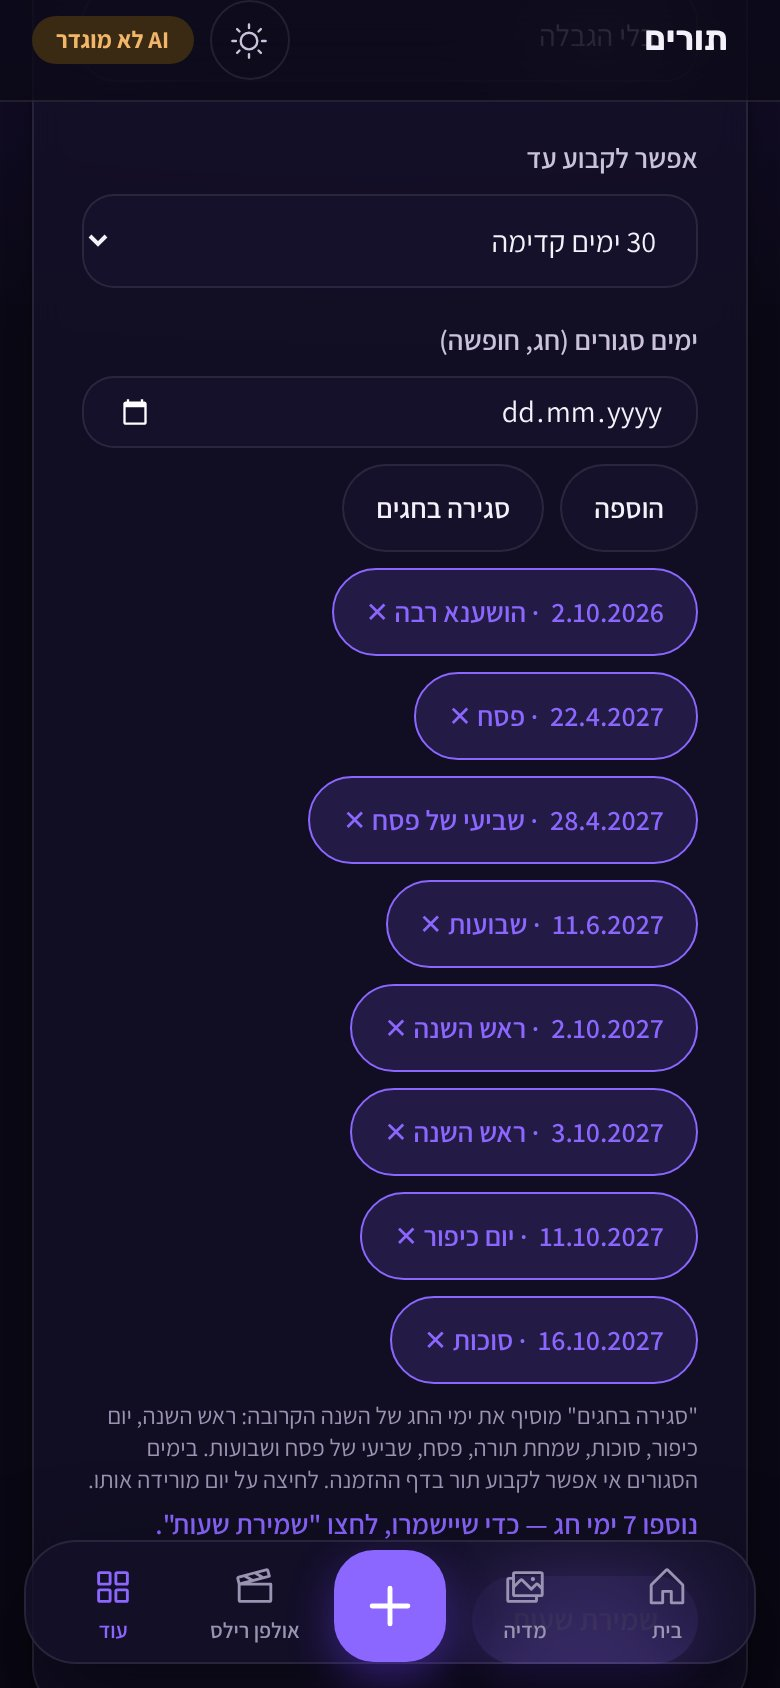
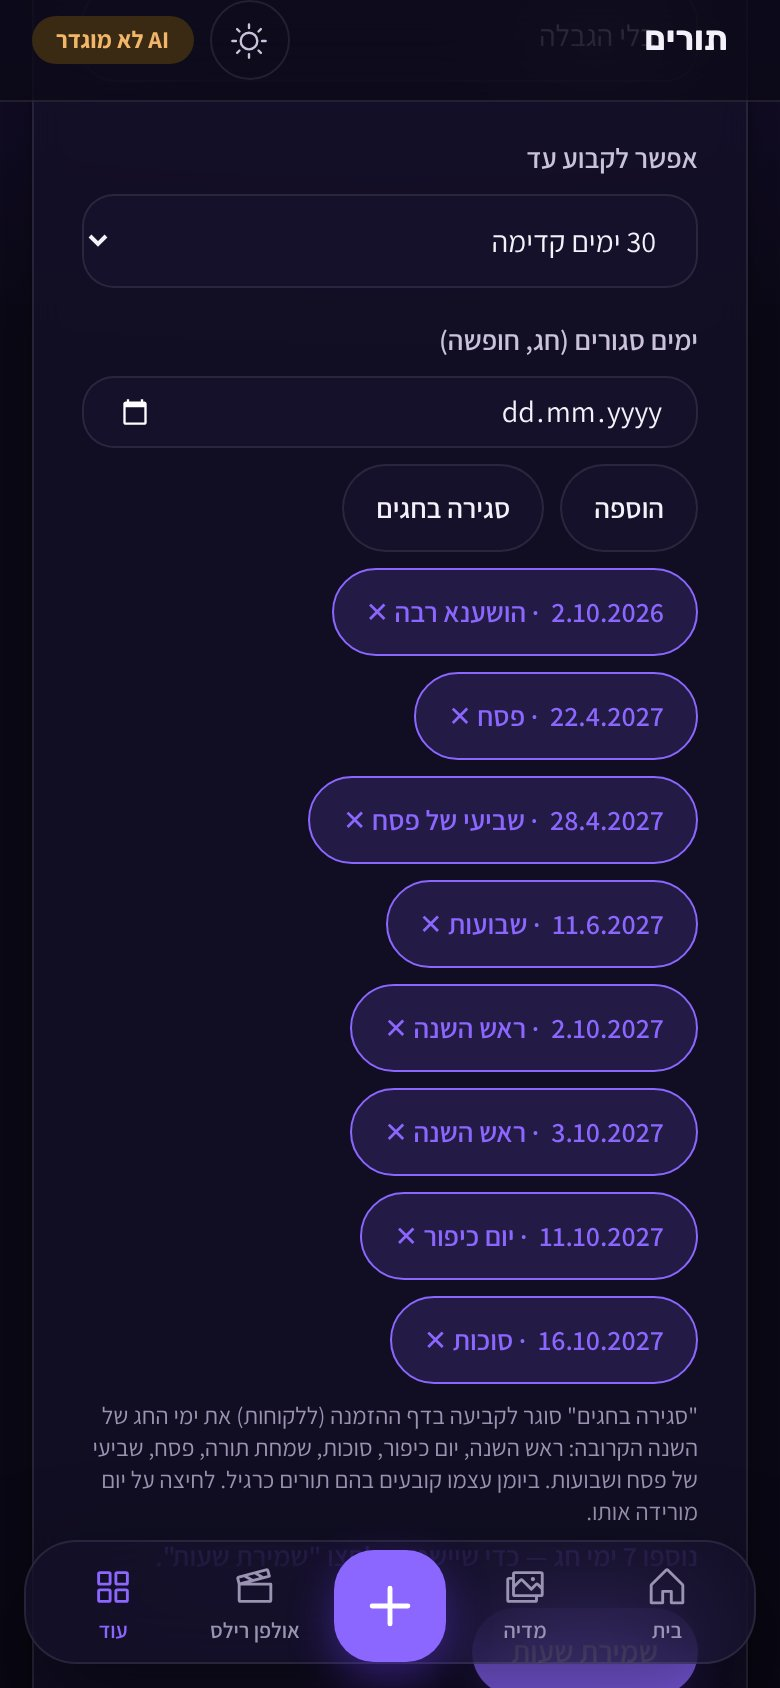
2.106.0: the results of the day colours — browser 14 of 14, the single-location screens, new screenshots
- calendar.e2e.ts 14 of 14: a booking on a Saturday with no hours, the holiday's colour,
  Hoshana Raba open, the practitioners' six colours.
- single-location (exact diff, no threshold): 11 of 13 screens identical to the pixel; two
  with a few dozen pixels 1 of 255 apart (not visible); the appointments screen changed on
  purpose in the Friday and Saturday columns only.
- docs/screenshots/2.106.0: the holiday's colour, Friday and Saturday, the practitioners'
  colours — test data, invented customers.

Claude-Session: https://claude.ai/code/session_01KrHxGFX6JW2VxitsjFfJC3

Changed region(s): [[0.1231, 0.8318, 0.8923, 0.955], [0.5846, 0.955, 0.8923, 1.0]]

diff --git a/dream-promotion/TESTING.md b/dream-promotion/TESTING.md
@@ -2150,7 +2150,7 @@ select
     - השעות של תור חדש (`calendarHours`): בשישי, בשבת ובחג בלי שעות — היום הרגיל של העסק (מהפתיחה המוקדמת עד הסגירה המאוחרת; בלי שעות בכלל — 09:00–19:00).
   - `lead-routing.test.ts`: כתום, כחול וסגול נדחים למטפלת (`staff.calendar` ו-`staff.save`) עם ההודעה "שמור ליומן", ושום דבר לא נשמר.
 - **`test:e2e`:**
-  - `calendar.e2e.ts` — 14 שלבים (ההרצה החוזרת רצה עכשיו — התוצאה תעודכן כאן) (שני שלבים חדשים, ושלושה שהשתנו):
+  - `calendar.e2e.ts` — 14 מתוך 14 (שני שלבים חדשים, ושלושה שהשתנו):
     - **"מטפלות":** לבחירה רק 6 צבעים (בלי כתום, כחול וסגול), וכתוב שהם שמורים לשישי, לשבת ולחגים.
     - **השבוע במחשב (מ-2.105):** שבת בלי שעות פעילות — "אין תורים", לא "סגור".
     - **במחשב:**
@@ -2166,7 +2166,7 @@ select
       - שישי 2.10 — "הושענא רבה" (בלי "סגור"), בצבע החג, לא מקווקו — למרות שהוא בימים הסגורים לדף ההזמנה.
       - "שעות פעילות" ← "סגירה בחגים": נוספים 7 ימים, כל אחד עם שם החג, והיום שכבר היה סגור נשאר. לפני "שמירת שעות" — שום דבר לא נשמר; אחרי — במסד. לחיצה שנייה — "כל ימי החג של השנה הקרובה כבר בימים הסגורים".
       - אפריל 2027 בחודש: פסח בצבע החג ולא מקווקו (סגור רק לדף ההזמנה), ערב פסח — יום רגיל.
-  - `single-location.e2e.ts` (לפני — הקוד בלי השינוי, אחרי — עם השינוי): ירוץ אחרי בדיקת הדפדפן — התוצאה תעודכן כאן.
+  - `single-location.e2e.ts` (לפני — הקוד בלי השינוי, אחרי — עם השינוי): 11 מתוך 13 המסכים זהים לגמרי, עד הפיקסל (בדיקה מדויקת, בלי סף): הקופה (מכירה, מכירות, מסמכים; גם בטלפון), לובי הכספים (מחשב וטלפון), מסמכים, הכנסות, הוצאות והגדרות. בשניים — מסמך פתוח וסגירת יום בקופה — כמה עשרות פיקסלים שונים ב-1 מתוך 255 (בלתי נראה; במסמך — ליד שורת הגרסה, שמוסתרת בהשוואה בכוונה; שני המסכים לא משתמשים בשום דבר שהשתנה). מסך התורים במחשב השתנה בכוונה, ורק בעמודות של שישי ושבת: הצבעים החדשים, ושבת בלי פסים ובלי "סגור". ההשוואה של הבדיקה עצמה (סופרת רק שינוי של יותר מ-40 מתוך 255) מצאה רק את מסך התורים — 6 מתוך 7, בכוונה.
   - **תמונות:** `docs/screenshots/2.106.0`.
 
 **בטלפון אמיתי, ב-Preview:**

diff --git a/dream-promotion/STATUS.md b/dream-promotion/STATUS.md
@@ -4709,9 +4709,9 @@
 
 **מה נבדק (פירוט ב-TESTING.md, סעיף 45):**
 - **`npm test`:** 578 מתוך 578. חדש: `booking-holidays.test.ts` — שנה שלמה (תשפ״ז) יום-יום, תאריכים שכבר פורסמו (תשפ״ה ותשפ״ו), ועשרים שנה של כללים (2025–2046), כולל כל סוג של דחייה, ומה נצבע כחג. ב-`booking-calendar.test.ts`: שלושת הצבעים לא של מטפלת (גם עם 20 מטפלות), צבע היום, ששישי, שבת וחג לא "סגורים", והשעות של תור חדש בהם.
-- **בדפדפן:** `calendar.e2e.ts` — 14 שלבים (ההרצה החוזרת רצה עכשיו — התוצאה תעודכן כאן): שבוע סוכות (כל יום בצבע החג, בלי "סגור"), חודש ספטמבר, יום של חול המועד, הושענא רבה פתוח, תור בשבת (בלי שעות פעילות) בשעות הרגילות, הרשימה, שלושת הצבעים, הצבעים שלא מוצגים למטפלות, התצוגה הבהירה ו"סגירה בחגים" (עד המסד).
+- **בדפדפן:** `calendar.e2e.ts` — 14 מתוך 14: שבוע סוכות (כל יום בצבע החג, בלי "סגור"), חודש ספטמבר, יום של חול המועד, הושענא רבה פתוח, תור בשבת (בלי שעות פעילות) בשעות הרגילות, הרשימה, שלושת הצבעים, הצבעים שלא מוצגים למטפלות, התצוגה הבהירה ו"סגירה בחגים" (עד המסד).
 - **השרת:** `lead-routing.test.ts` — כתום, כחול וסגול נדחים למטפלת (קיימת וחדשה), ושום דבר לא נשמר.
-- **`single-location.e2e.ts`:** ירוץ אחרי בדיקת הדפדפן — התוצאה תעודכן כאן.
+- **`single-location.e2e.ts`:** 11 מתוך 13 המסכים זהים לגמרי, עד הפיקסל (בדיקה מדויקת, בלי סף): הקופה (מכירה, מכירות, מסמכים; גם בטלפון), לובי הכספים (מחשב וטלפון), מסמכים, הכנסות, הוצאות והגדרות. בשניים — מסמך פתוח וסגירת יום בקופה — כמה עשרות פיקסלים שונים ב-1 מתוך 255 (בלתי נראה; במסמך — ליד שורת הגרסה, שמוסתרת בהשוואה בכוונה; שני המסכים לא משתמשים בשום דבר שהשתנה). מסך התורים במחשב השתנה בכוונה, ורק בעמודות של שישי ושבת: הצבעים החדשים, ושבת בלי פסים ובלי "סגור". ההשוואה של הבדיקה עצמה (סופרת רק שינוי של יותר מ-40 מתוך 255) מצאה רק את מסך התורים — 6 מתוך 7, בכוונה.
 - **צילומים:** `docs/screenshots/2.106.0` (נתוני בדיקה — שמות הלקוחות מומצאים).
 
 **מה לא נבדק:**
